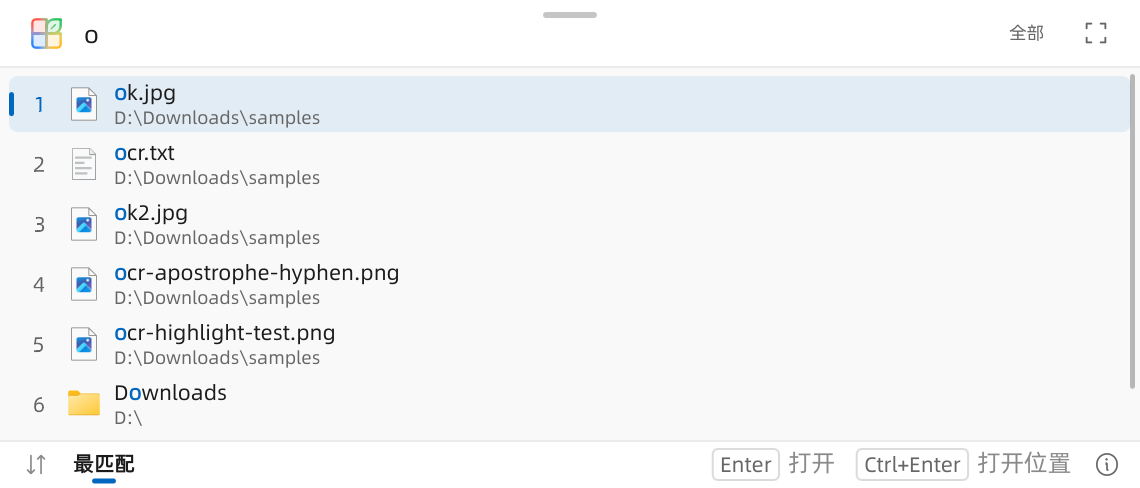
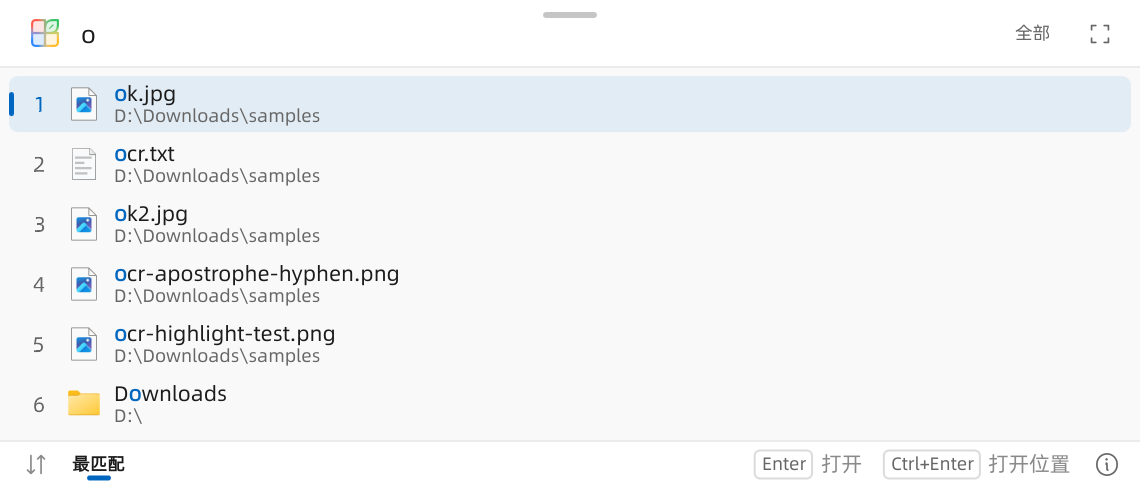
Names keep to their folders with any font, in the launcher too (#245)
Measured again with other fonts, sizes and scales: in the folder box with Microsoft YaHei UI a name was as far from its folder as from the next name (9 px each), and so were the launcher's rows at 紧凑 and 150% with the default font (13.3 each). All result rows now take the font's typographic line height, and the folder box's two lines are 2 px apart, not 4. Folder box 4 against 12, launcher 8 against 24 at 标准; row heights, font sizes and icons are where they were.

--result-row-spacing takes --font and asks more of the folder box (3 px); 4 scales x 3 sizes x 4 fonts pass. The validation notes add this, and a whole update of the real 0.23.0 portable copy set to run as administrator (#274): its own helper rolls back at 740, the new one brings the new version up.

diff --git a/src/app/qml/ResultRow.qml b/src/app/qml/ResultRow.qml
@@ -333,7 +333,9 @@ Item {
         anchors.leftMargin: row.compact ? 8 : Theme.textStart - Theme.iconInset - iconSlot.width
         anchors.right: parent.right
         anchors.rightMargin: row.trailingSpace + (metadata.visible ? metadata.width + 16 : 0)
-        spacing: 4
+        // The folder box's short rows: closer, so that with any 界面字体 a
+        // name is nearer its own folder than the next name's (GitHub #245).
+        spacing: row.compact ? 2 : 4
 
         Item {
             width: parent.width
@@ -353,11 +355,12 @@ Item {
                 elide: Text.ElideRight
                 color: Theme.text
                 font.pixelSize: row.compact ? 14 : Theme.uiTitle
-                // In the folder box's short rows the font's Windows line
-                // height (tall in the default font) pushed a name and its
-                // folder apart, and each folder against the next name
-                // (GitHub #245); its typographic one keeps the two together.
-                font.preferTypoLineMetrics: row.compact
+                // The font's Windows line height (tall in the default font)
+                // pushed a name and its folder apart, as far as a folder is
+                // from the next name: in the folder box's short rows, and in
+                // the launcher's at 紧凑 (GitHub #245). Its typographic one
+                // keeps the two together.
+                font.preferTypoLineMetrics: true
             }
 
             Text { // content search: where the file lives, next to its name
@@ -394,7 +397,7 @@ Item {
             maximumLineCount: 1
             color: row.switchError.length > 0 ? Theme.danger : Theme.subtext
             font.pixelSize: row.compact ? 12 : Theme.uiCaption
-            font.preferTypoLineMetrics: row.compact
+            font.preferTypoLineMetrics: true
         }
     }
 

diff --git a/src/app/NavigationProbe.cpp b/src/app/NavigationProbe.cpp
@@ -753,7 +753,9 @@ bool checkResultRowSpacing(QQmlEngine* engine, const QDir& output)
         }
         report.insert(folder ? u"folder"_s : u"launcher"_s, QJsonObject {{u"dpr"_s, dpr}, {u"name_to_folder"_s, inner},
             {u"row_to_row"_s, outer}});
-        check(outer >= inner + 2, mode + u": name to folder %1, row to row %2 (logical px of ink)"_s.arg(inner).arg(outer));
+        // The folder box's short rows must tell clearly, with any font and
+        // scale; the launcher's roomy ones only must not be the other way round.
+        check(folder ? outer >= inner + 3 : outer > inner, mode + u": name to folder %1, row to row %2 (logical px of ink)"_s.arg(inner).arg(outer));
         check(picture.save(output.filePath(folder ? u"rows-folder-box.png"_s : u"rows-launcher.png"_s)), mode + u": saved"_s);
     }
     launcher.setFolderSearch(false);

diff --git a/src/app/Preview.cpp b/src/app/Preview.cpp
@@ -6377,6 +6377,8 @@ int runResults(const QStringList& args)
     QQuickWindow::setGraphicsApi(QSGRendererInterface::Direct3D11);
     QQuickWindow::setTextRenderType(QQuickWindow::NativeTextRendering);
     QFont font = QGuiApplication::font();
+    if (const QString family = valueAfter(args, u"--font"); !family.isEmpty())
+        font.setFamily(family); // 界面字体, as chosen in the settings
     font.setStyleStrategy(QFont::NoSubpixelAntialias);
     QGuiApplication::setFont(font);
     if (args.contains(u"--clipboard-scroll"_s)) // its own engine: --qml-debug comes before one exists

diff --git a/docs/validation/issues-274-245-234-20261110/README.md b/docs/validation/issues-274-245-234-20261110/README.md
@@ -65,3 +65,44 @@
 ## 现场安全
 
 真实资源管理器的探针在 `F:\wswt\ui.lock` 下运行，用完即删。没有动用户正在运行的 Win顺；所有程序都从 `build\issues-274-245-234` 运行，配置和索引是临时的。更新测试只改了临时文件夹里替身 exe 的兼容性标记，结束时删掉。
+
+## 2026-11-11 复核：补上第一轮没验证到的部分
+
+在 main（150c157 之后）上全新构建。`tst_updater` 41 项通过、4 项联网测试跳过，`tst_explorerview` 6 项通过，`--folder-typing` 探针 51 项通过。
+
+### #274 用真正的 Win顺 走一遍
+
+第一轮只用替身程序测过。这次把 0.23.0 发布版复制成便携版（旁边建 `data`），给它的 `WinShun.exe` 加上 `RUNASADMIN`，暂存文件夹里放本次构建的 `WinShun.exe` 和 `WinShunUpdate.exe`，分别用两个助手运行 `--portable`：
+
+| 助手 | 日志 | 结果 |
+|---|---|---|
+| 0.23.0 自带的 | `cannot start …WinShun.exe (740)` → `rolled back` → 再次 `cannot start (740)` | 退出码 4，换回旧文件，没有任何 Win顺 在运行 |
+| 本次构建的 | `started … as administrator, as its properties ask` → `done` | 退出码 0，新文件在位，暂存和备份已清；Win顺 以管理员身份运行，1 秒内出现消息窗口，`--quit` 0.6 秒退出 |
+
+测试副本启动后把三处“用 Win顺 搜索此处”右键项改指向了自己，测完已改回 Program Files；自启动任务没变。
+
+仍未验证：报告者 zh-y-h 是否真的勾了这个选项（已在 issue 里问）；新版本以管理员身份起来后启动失败时的回滚（助手结束不了管理员进程）。
+
+### #245 换字体、换界面大小、换缩放
+
+第一轮只量了默认字体、“标准”大小。补量后发现两个问题，都已修改：
+
+- 界面字体换成微软雅黑时，文件夹搜索框是 9 / 9，两个间距一样大。紧凑行两行字之间的 `spacing` 由 4 改为 2。
+- 启动器在“紧凑”大小、150% 下是 13.3 / 13.3（报告者正是这个设置）；默认字体下其他档也只差 2。所有结果行都改用排版行高，不再只限文件夹搜索框。
+
+探针 `--result-row-spacing` 现在接受 `--font <字体>`，并要求文件夹搜索框“行→行”至少比“名字→路径”大 3，启动器只要求更大。4 种缩放（100%、125%、150%、200%）× 3 档大小 × 4 种字体（默认、微软雅黑、宋体、Segoe UI）共 48 次，全部通过。默认字体的结果（名字→路径 / 行→行，逻辑像素）：
+
+| | 修改前 | 现在 |
+|---|---|---|
+| 文件夹搜索框（各档大小相同） | 12 / 4 | 4 / 12（150%：4 / 12.7） |
+| 启动器，紧凑 | 13 / 14（150%：13.3 / 13.3） | 6 / 21（150%：6.7 / 20） |
+| 启动器，标准 | 15 / 17 | 8 / 24 |
+| 启动器，宽松 | 16 / 22 | 9 / 29 |
+
+其他字体下文件夹搜索框是 5–7 / 10.4–14.7。行高、字号、图标位置都没变。上面“修改后”的两张文件夹搜索框截图已换成现在的样子。启动器，紧凑、150%：
+
+<img src="launcher-245-before-150-compact.png" width="49%" alt="启动器修改前：两个间距一样"> <img src="launcher-245-after-150-compact.png" width="49%" alt="启动器现在：名字和路径成对">
+
+### #234 Windows 10
+
+报告者的截图是 Windows 10 的资源管理器。本机没有 Windows 10，没有实测。Windows 11 的文件列表和 Windows 10 是同一套控件，滚动条同样是列表里的 `ScrollBar` 子窗口；如果那边找不到，代码按整个列表定位，和修改前一样。已请报告者在新版本里确认。

diff --git a/docs/pitfalls.md b/docs/pitfalls.md
@@ -5336,8 +5336,9 @@
 
 - **现象**：资源管理器里打字弹出的搜索框，每个结果的名字离自己的路径远，路径反而贴着下一行的名字。100%、150% 都一样。
 - **原因**：Qt 在 Windows 上按字体的 Windows 行高（`usWinAscent + usWinDescent`）排文字。默认字体阿里巴巴普惠体 3.0 的这对数值比字形高出不少，矮的紧凑行里两行字之间就空出一大截，比行与行之间还宽。
-- **做法**：紧凑行的名字和路径设 `font.preferTypoLineMetrics: true`，改用排版行高。只改紧凑行，启动器的行高够，原来的比例没问题。
-- **验证**：`--preview-results <目录> --result-row-spacing` 在渲染出来的像素上量墨迹：名字→路径、路径→下一行名字（逻辑像素），后者至少比前者大 2。修改前 12/4，修改后 6/10（150% 下 6/10.7）。要看 150% 用 `QT_SCREEN_SCALE_FACTORS=1.5`，`QT_SCALE_FACTOR` 在这个程序里不起作用。
+- **做法**：结果行的名字和路径都设 `font.preferTypoLineMetrics: true`，改用排版行高；紧凑行两行之间的 `spacing` 再由 4 收到 2。第一版只改了紧凑行、只量了默认字体，复核时发现微软雅黑下仍是 9/9，启动器在“紧凑”大小、150% 下是 13.3/13.3。
+- **验证**：`--preview-results <目录> --result-row-spacing [--size compact|standard|roomy] [--font <字体>]` 在渲染出来的像素上量墨迹：名字→路径、路径→下一行名字（逻辑像素）。文件夹搜索框由 12/4 变成 4/12，启动器“标准”由 15/17 变成 8/24；4 种缩放 × 3 档大小 × 4 种字体共 48 次都通过。要看 150% 用 `QT_SCREEN_SCALE_FACTORS=1.5`，`QT_SCALE_FACTOR` 在这个程序里不起作用。
+- **教训**：和字体行高有关的改动，至少换一种界面字体、换一档界面大小再量一遍，不要只量默认设置。
 
 ## 搜索框压在资源管理器的滚动条上（GitHub #234，2026-11-10）
 
